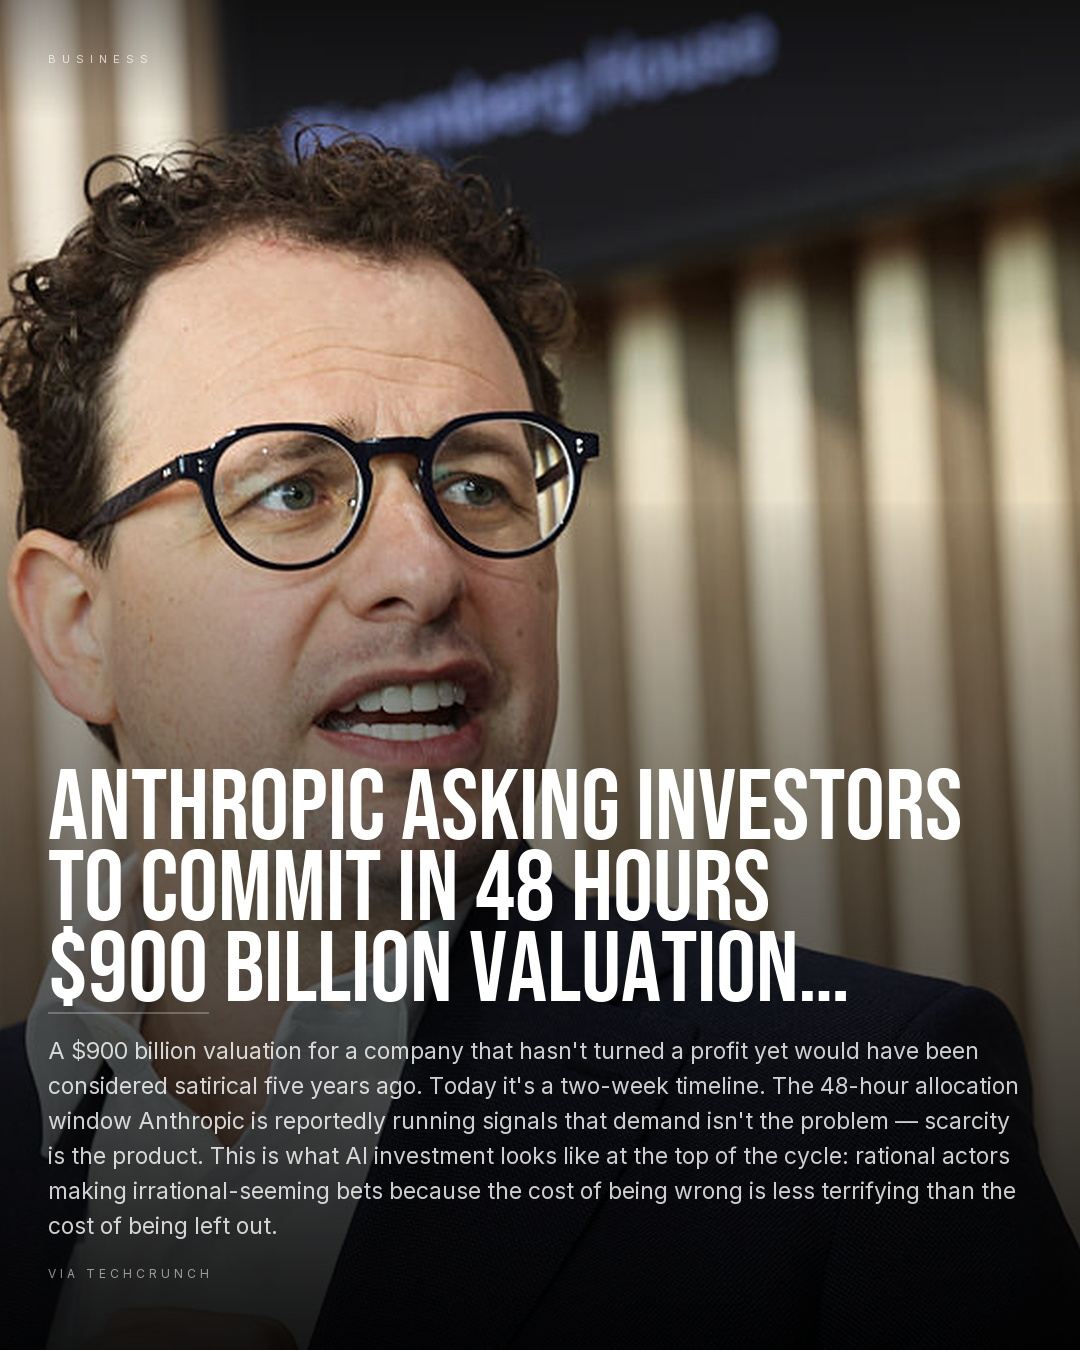
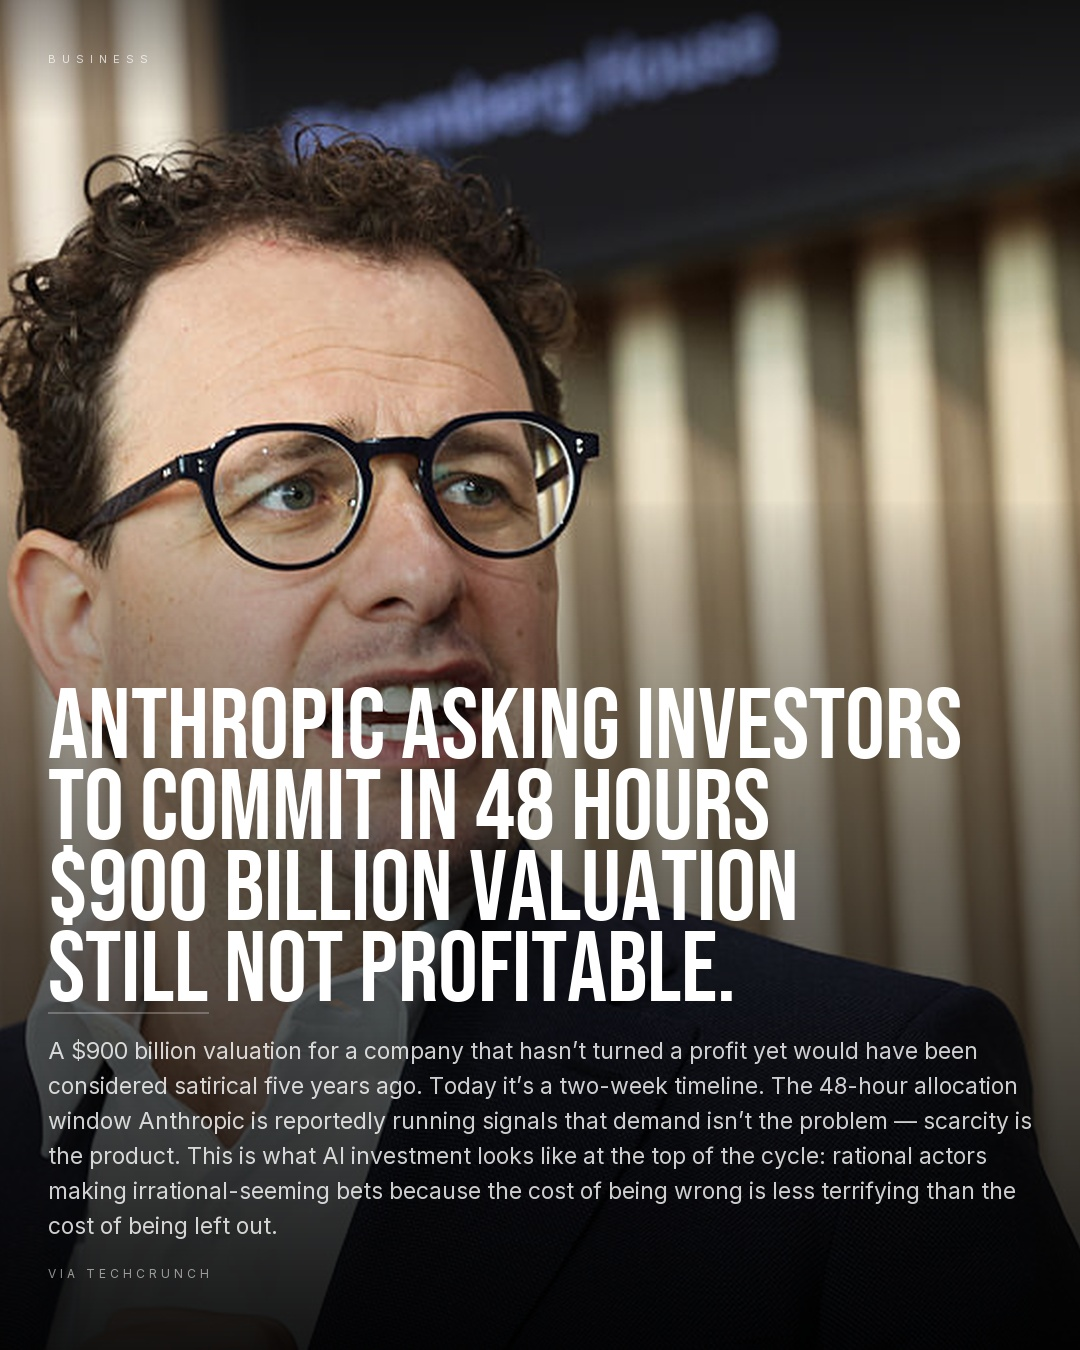
fix: image slide hook cap 3->5 lines, proper punctuation on all slides, regen 2026-05-01

Changed region(s): [[0.0306, 0.4978, 0.8861, 0.7467], [0.2444, 0.7778, 0.9472, 0.8711], [0.0306, 0.84, 0.2139, 0.8711]]

diff --git a/digest_publisher.py b/digest_publisher.py
@@ -747,34 +747,31 @@ def render_story_slide(
 
         draw_meas = ImageDraw.Draw(canvas)
 
-        # Measure headline
+        # Measure headline — no line cap on text-only slides, centering handles layout
         if hook_lines:
-            wrapped = []
+            head_lines = []
             for hl in hook_lines:
-                wrapped.extend(_wrap_text(draw_meas, hl, bebas_to, content_w))
-            head_lines = _truncate_lines(wrapped, 3, draw_meas, bebas_to, content_w)
+                head_lines.extend(_wrap_text(draw_meas, hl, bebas_to, content_w))
         else:
-            raw_lines  = _wrap_text(draw_meas, pick["title"], bebas_to, content_w)
-            head_lines = _truncate_lines(raw_lines, 3, draw_meas, bebas_to, content_w)
+            head_lines = _wrap_text(draw_meas, pick["title"], bebas_to, content_w)
         head_lh    = math.ceil(_text_h(bebas_to) * 1.12)
         head_total = len(head_lines) * head_lh
 
-        # Measure why — use Substack copy (more analytical) with extra lines for the space
+        # Measure why — use Substack copy (more analytical); no line cap
         substack_text = copy.get("substack") or pick["why"]
-        why_lines = _wrap_sentences(substack_text, draw_meas, inter_to, content_w, 5)
+        why_lines = _wrap_text(draw_meas, substack_text, inter_to, content_w)
         why_lh    = math.ceil(_text_h(inter_to) * 1.55)
         why_total = len(why_lines) * why_lh
 
-        # Anchor text block to the bottom (mirrors image-path layout)
-        source_h = _text_h(inter12)
-        source_y = H - TEXT_BOTTOM_PAD - source_h
-        why_y    = source_y - 20 - why_total
-        div_y    = why_y - 24
-        head_y   = div_y - 20 - head_total
-
-        # Bottom gradient to ground the text zone
-        grad = _gradient_overlay(OUTPUT_SIZE, 600, 0.55)
-        canvas = Image.alpha_composite(canvas.convert("RGBA"), grad).convert("RGB")
+        # Center the content block vertically between the category badge and source line
+        source_h  = _text_h(inter12)
+        source_y  = H - TEXT_BOTTOM_PAD - source_h
+        block_total = head_total + 20 + 24 + why_total
+        usable_top  = 90   # clear the category badge
+        usable_bot  = source_y - 20
+        head_y = usable_top + max(0, (usable_bot - usable_top - block_total) // 2)
+        div_y  = head_y + head_total + 20
+        why_y  = div_y + 24
 
         # Category badge — top-left
         badge_y   = 52
@@ -876,7 +873,7 @@ def render_story_slide(
         wrapped = []
         for hl in hook_lines:
             wrapped.extend(_wrap_text(draw_meas, hl, bebas76, content_w))
-        head_lines = _truncate_lines(wrapped, 3, draw_meas, bebas76, content_w)
+        head_lines = _truncate_lines(wrapped, 5, draw_meas, bebas76, content_w)
     else:
         raw_lines  = _wrap_text(draw_meas, pick["title"], bebas76, content_w)
         head_lines = _truncate_lines(raw_lines, 2, draw_meas, bebas76, content_w)
